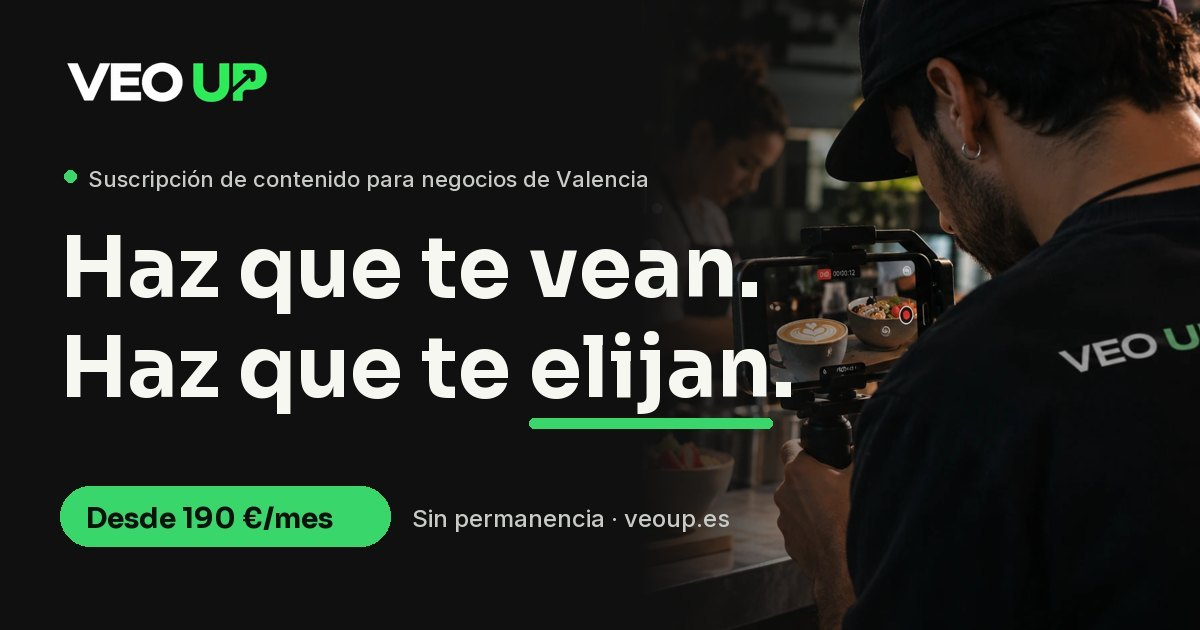
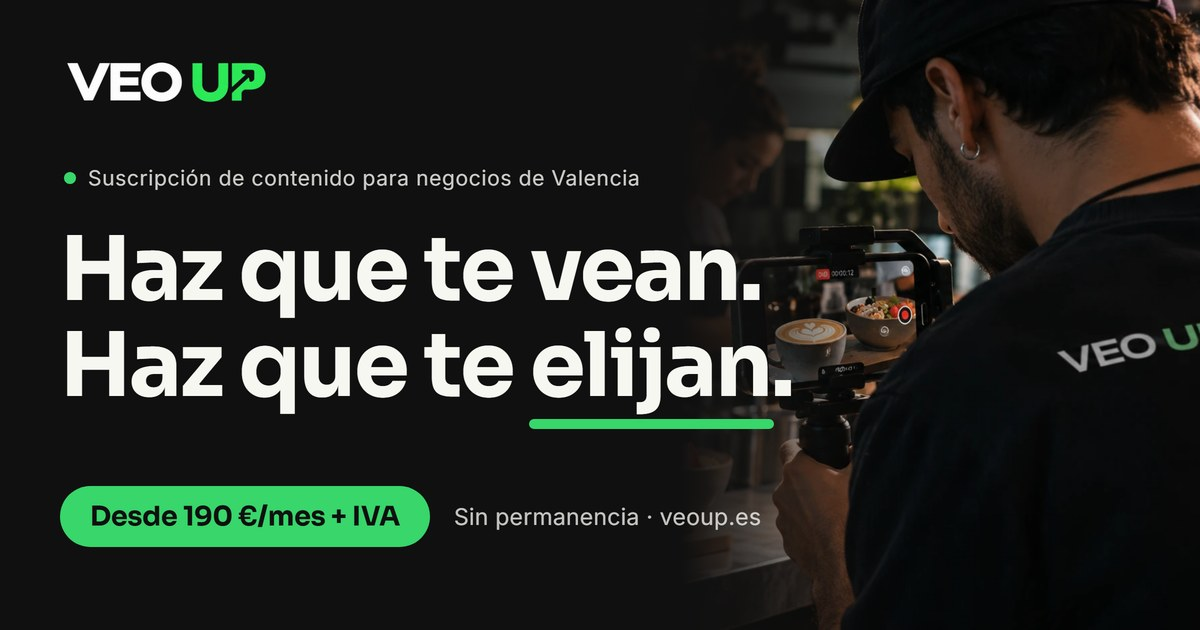
Enlace limpio /gratis para la prueba gratuita e imágenes de vista previa nuevas (+ IVA y prueba gratuita)

diff --git a/gratis/index.html b/gratis/index.html
@@ -1,0 +1,153 @@
+<!doctype html>
+<html lang="es">
+<head>
+<meta charset="utf-8">
+<meta name="viewport" content="width=device-width, initial-scale=1">
+<meta name="robots" content="noindex">
+<link rel="icon" href="/favicon.ico" sizes="any">
+<link rel="icon" type="image/png" sizes="32x32" href="/media/icons/favicon-32.png">
+<link rel="apple-touch-icon" href="/media/icons/apple-touch-icon.png">
+<title>Empieza tu prueba gratuita · VEO UP</title>
+<meta name="description" content="Cuéntanos un poco de tu negocio para preparar tu Content Day. Son 5 minutos.">
+<meta property="og:title" content="Empieza tu prueba gratuita · VEO UP">
+<meta property="og:description" content="Cuéntanos un poco de tu negocio para preparar tu Content Day. Son 5 minutos.">
+<meta property="og:url" content="https://www.veoup.es/gratis/">
+<meta property="og:type" content="website">
+<meta property="og:locale" content="es_ES">
+<meta property="og:site_name" content="VEO UP">
+<meta property="og:image" content="https://www.veoup.es/media/og-gratis.jpg">
+<meta property="og:image:width" content="1200">
+<meta property="og:image:height" content="630">
+<meta property="og:image:alt" content="VEO UP: Haz que te vean. Haz que te elijan. Prueba gratuita.">
+<meta name="twitter:card" content="summary_large_image">
+<meta name="twitter:image" content="https://www.veoup.es/media/og-gratis.jpg">
+<meta name="theme-color" content="#0A0A0C">
+<!-- Formulario de la prueba gratuita: enlace corto veoup.es/gratis (2026-11-16). Es la misma página que
+     /formulario/ con la marca gratis=1 siempre puesta en el Tally Yj0JvN (campo oculto «gratis»): oculta la
+     pregunta de planes y el script de correos envía la bienvenida gratis.
+     Eventos: form_view, form_step, form_submit con form_name "onboarding_gratis". -->
+<script>
+  window.GTM_ID = "GTM-MJM75GLF";
+  window.dataLayer = window.dataLayer || [];
+  var veoQueue = [];
+  window.track = function (event, params) {
+    var e = Object.assign({ event: event }, params || {});
+    if (window.__gtmLoaded) window.dataLayer.push(e); else veoQueue.push(e);
+  };
+  try {
+    var qi = new URLSearchParams(location.search).get("interno");
+    if (qi === "1") localStorage.setItem("veoup-interno", "1");
+    if (qi === "0") localStorage.removeItem("veoup-interno");
+    window.__veoInterno = localStorage.getItem("veoup-interno") === "1";
+  } catch (e) { window.__veoInterno = false; }
+  window.loadGTM = function () {
+    if (!window.GTM_ID || window.__gtmLoaded || window.__veoInterno) return;
+    window.__gtmLoaded = true;
+    window.dataLayer.push({ "gtm.start": Date.now(), event: "gtm.js" });
+    veoQueue.forEach(function (e) { window.dataLayer.push(e); }); veoQueue = [];
+    var s = document.createElement("script"); s.async = true;
+    s.src = "https://www.googletagmanager.com/gtm.js?id=" + window.GTM_ID;
+    document.head.appendChild(s);
+  };
+  try { if (localStorage.getItem("veoup-consent") === "si") window.loadGTM(); } catch (e) {}
+</script>
+<link rel="preconnect" href="https://fonts.googleapis.com">
+<link rel="preconnect" href="https://fonts.gstatic.com" crossorigin>
+<link href="https://fonts.googleapis.com/css2?family=Inter:wght@400;600;700&family=Sora:wght@600;700&display=swap" rel="stylesheet">
+<style>
+  :root { --black: #101010; --cream: #F7F7F2; --green: #38D66B; --grey: #EAECE9; }
+  * { box-sizing: border-box; }
+  body { margin: 0; background: var(--cream); color: var(--black); font: 16px/1.5 Inter, system-ui, sans-serif; }
+  .top { max-width: 680px; margin: 0 auto; padding: 16px 16px 0; }
+  .back { font-size: 14px; font-weight: 600; color: #5a5d59; text-decoration: none; }
+  .back:hover { color: var(--black); }
+  main { max-width: 680px; margin: 0 auto; padding: 12px 16px 48px; }
+  iframe { width: 100%; border: 0; min-height: 520px; display: block; }
+  /* Mientras sale el aviso de cookies, hueco abajo para que no tape el botón del formulario */
+  html.consent-open main { padding-bottom: 240px; }
+  .help { margin-top: 24px; font-size: 14px; color: #5a5d59; text-align: center; }
+  .help a { color: var(--black); font-weight: 600; }
+  .consent { position: fixed; left: 16px; right: 16px; bottom: 16px; z-index: 60; background: #fff; border-radius: 18px;
+    padding: 16px; box-shadow: 0 18px 50px rgba(0,0,0,.18); display: grid; gap: 12px; opacity: 0; transform: translateY(12px);
+    pointer-events: none; transition: .3s; }
+  .consent.show { opacity: 1; transform: none; pointer-events: auto; }
+  .consent p { margin: 0; font-size: 14px; line-height: 1.45; color: #3a3d39; }
+  .consent p b { color: var(--black); }
+  .consent-btns { display: grid; grid-template-columns: 1fr 1fr; gap: 8px; }
+  .consent button { min-height: 44px; border: 0; border-radius: 999px; font: 600 14px Inter, sans-serif; cursor: pointer; }
+  .consent .no { background: var(--grey); color: var(--black); }
+  .consent .si { background: var(--black); color: #fff; }
+  @media (min-width: 900px) { .consent { left: 24px; right: auto; bottom: 24px; width: 380px; } }
+</style>
+</head>
+<body>
+<!-- La portada del formulario de Tally ya lleva el logo: aquí solo un enlace discreto de vuelta a la web -->
+<header class="top"><a href="/" class="back">← Volver a veoup.es</a></header>
+<main>
+  <!-- gratis=1 va fijo en la URL del iframe: lo usan Tally.loadEmbeds() y el respaldo del setTimeout de abajo -->
+  <iframe id="tally" data-tally-src="https://tally.so/embed/Yj0JvN?alignLeft=1&amp;transparentBackground=1&amp;dynamicHeight=1&amp;gratis=1"
+    loading="eager" title="Empieza tu prueba gratuita · VEO UP"></iframe>
+  <p class="help">¿Alguna duda? <a href="https://wa.me/34611216083?text=Hola%2C%20tengo%20una%20duda%20con%20el%20formulario%20de%20la%20prueba%20gratuita%20de%20VEO%20UP." target="_blank" rel="noopener">Escríbenos por WhatsApp</a></p>
+</main>
+<!-- PENDIENTE: el texto del banner y la política de cookies los revisa un responsable (igual que en la home) -->
+<div class="consent" id="consent" role="dialog" aria-label="Cookies" aria-hidden="true">
+  <p><b>¿Nos dejas medir?</b> Usamos cookies de analítica para saber qué funciona en la web. Solo si aceptas.</p>
+  <div class="consent-btns">
+    <button type="button" class="no" data-consent="no">Rechazar</button>
+    <button type="button" class="si" data-consent="si">Aceptar</button>
+  </div>
+</div>
+<script src="https://tally.so/widgets/embed.js" async onload="Tally.loadEmbeds()"></script>
+<script>
+  // Por si embed.js tarda o falla: carga el iframe directamente.
+  setTimeout(function () {
+    var f = document.getElementById("tally");
+    if (!f.src) f.src = f.dataset.tallySrc;
+  }, 2500);
+
+  // Medición del formulario a partir de los mensajes que envía el iframe de Tally.
+  var stepsSeen = {}, sent = false;
+  window.addEventListener("message", function (e) {
+    if (typeof e.origin !== "string" || e.origin.indexOf("tally.so") === -1) return;
+    var d = e.data;
+    if (typeof d === "string") { try { d = JSON.parse(d); } catch (x) { return; } }
+    if (!d || typeof d.event !== "string") return;
+    if (d.event === "Tally.FormLoaded" && !stepsSeen.loaded) { stepsSeen.loaded = 1; track("form_view", { form_name: "onboarding_gratis" }); }
+    if (d.event === "Tally.FormPageView" && d.payload && d.payload.page) {
+      var p = d.payload.page;
+      if (!stepsSeen[p]) { stepsSeen[p] = 1; track("form_step", { form_name: "onboarding_gratis", form_step: String(p) }); }
+    }
+    if (d.event === "Tally.FormSubmitted" && !sent) {
+      sent = true; track("form_submit", { form_name: "onboarding_gratis" });
+      // Lleva a /gracias (reserva de la reunión). Pasa solo el nombre de pila, si viene en las respuestas.
+      var nombre = "";
+      try {
+        (d.payload && d.payload.fields || []).some(function (f) {
+          if (/nombre/i.test(f.title || "") && !/negocio|empresa/i.test(f.title || "")) {
+            var v = f.answer && (f.answer.value != null ? f.answer.value : f.answer.raw);
+            if (typeof v === "string" && v.trim()) { nombre = v.trim().split(/\s+/)[0].slice(0, 30); return true; }
+          }
+        });
+      } catch (x) {}
+      setTimeout(function () { location.href = "/gracias/" + (nombre ? "?n=" + encodeURIComponent(nombre) : ""); }, 700);
+    }
+  });
+
+  // Banner de cookies (misma lógica que la home; no sale en modo interno).
+  var consent = window.__veoInterno ? null : document.getElementById("consent");
+  if (consent) {
+    var choice = null;
+    try { choice = localStorage.getItem("veoup-consent"); } catch (e) {}
+    if (!choice) setTimeout(function () { consent.classList.add("show"); consent.setAttribute("aria-hidden", "false"); document.documentElement.classList.add("consent-open"); }, 600);
+    consent.querySelectorAll("[data-consent]").forEach(function (b) {
+      b.addEventListener("click", function () {
+        var v = b.dataset.consent;
+        try { localStorage.setItem("veoup-consent", v); } catch (e) {}
+        consent.classList.remove("show"); consent.setAttribute("aria-hidden", "true"); document.documentElement.classList.remove("consent-open");
+        if (v === "si") window.loadGTM();
+      });
+    });
+  }
+</script>
+</body>
+</html>

diff --git a/index.html b/index.html
@@ -45,12 +45,12 @@
 </script>
 <meta name="robots" content="index, follow">
 <meta name="google-site-verification" content="iNJFu4hXHDTr0DPLWedU6ZnDF2p5fcCTewOAyJ30mwA" />
-<meta property="og:image" content="https://www.veoup.es/media/og-veoup.jpg">
+<meta property="og:image" content="https://www.veoup.es/media/og-veoup.jpg?v=2">
 <meta property="og:image:width" content="1200">
 <meta property="og:image:height" content="630">
 <meta property="og:image:alt" content="VEO UP: Haz que te vean. Haz que te elijan. Desde 190 €/mes + IVA.">
 <meta name="twitter:card" content="summary_large_image">
-<meta name="twitter:image" content="https://www.veoup.es/media/og-veoup.jpg">
+<meta name="twitter:image" content="https://www.veoup.es/media/og-veoup.jpg?v=2">
 <script type="application/ld+json">
 {"@context":"https://schema.org","@type":"ProfessionalService","name":"VEO UP","url":"https://www.veoup.es/",
  "image":"https://www.veoup.es/media/og-veoup.jpg","telephone":"+34611216083",

diff --git a/formulario/index.html b/formulario/index.html
@@ -13,7 +13,7 @@
 <meta property="og:description" content="Cuéntanos un poco de tu negocio. Son 5 minutos.">
 <meta property="og:url" content="https://www.veoup.es/formulario/">
 <meta property="og:type" content="website">
-<meta property="og:image" content="https://www.veoup.es/media/og-veoup.jpg">
+<meta property="og:image" content="https://www.veoup.es/media/og-veoup.jpg?v=2">
 <meta property="og:image:width" content="1200">
 <meta property="og:image:height" content="630">
 <meta name="twitter:card" content="summary_large_image">
